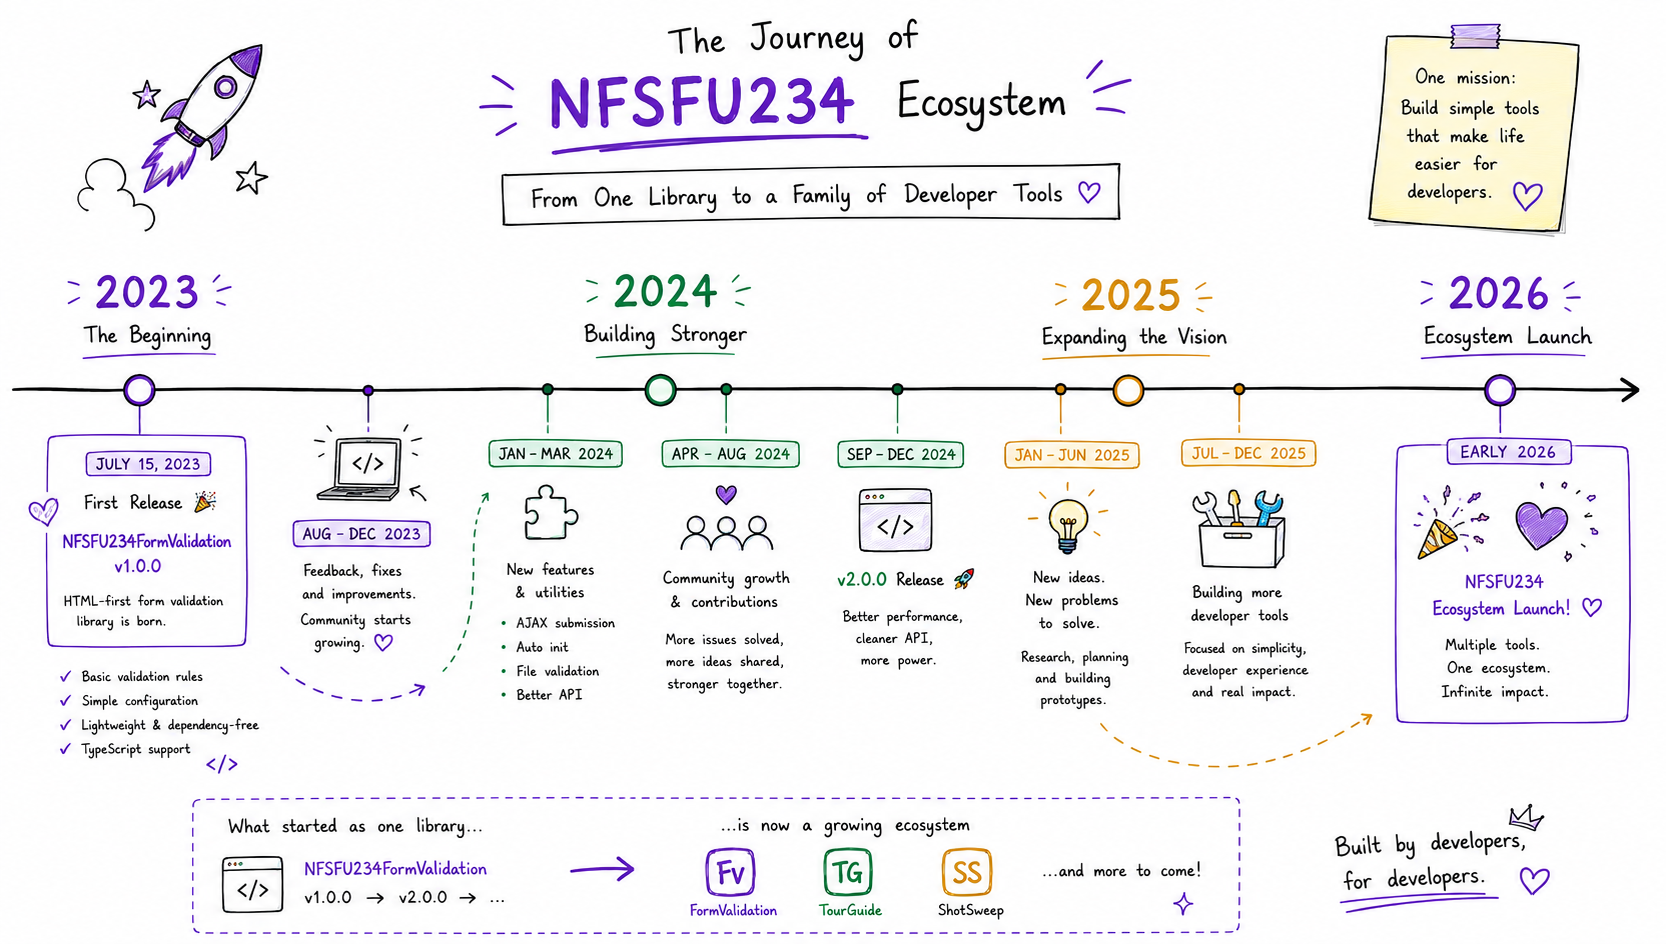
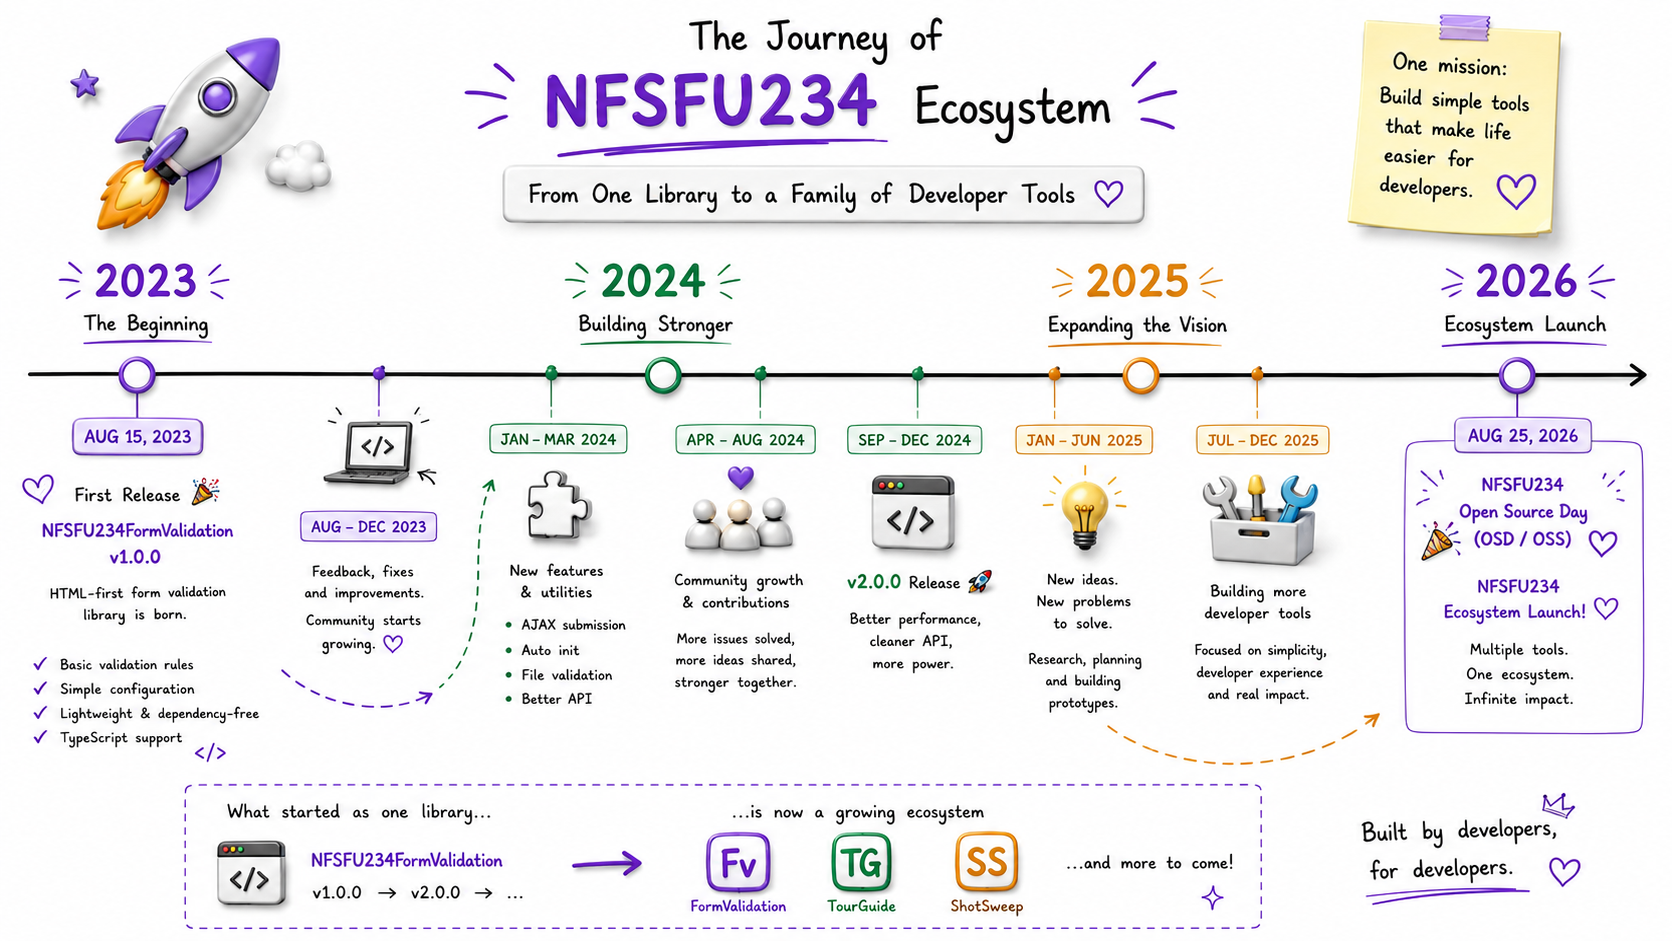
Refactor code structure for improved readability and maintainability

diff --git a/app/(marketing)/about/page.jsx b/app/(marketing)/about/page.jsx
@@ -196,7 +196,7 @@ function OriginStory() {
       <p>It started while <a href="https://www.iamnotshifu.com" target="_blank" rel="noopener noreferrer">IAMNOTSHIFU</a> was still learning to code.</p>
 
       <p>
-        Every new project he picked up, He found myself writing the same thing
+        Every new project he picked up, He found himself writing the same thing
         again — form validation. Required fields, email checks, min/max
         lengths, error messages, the AJAX submit logic around it. Different
         project, same code, rebuilt from scratch every time.
@@ -537,23 +537,6 @@ function GetInTouch() {
   )
 }
 
-function AboutFooter() {
-  return (
-    <>
-      <hr style={{ margin: '4rem 0' }} />
-
-      <p style={{ fontSize: '.95rem', opacity: 0.75, textAlign: 'center' }}>
-        Built with ❤ by <strong>IAMNOTSHIFU</strong> through{' '}
-        <strong>NFORSHIFU234 Dev</strong>, a developer brand of{' '}
-        <strong>NFORSHIFU LOGICFORGE LTD</strong>.
-        <br />
-        Proudly part of the growing{' '}
-        <strong>NFSFU234 Open Source Ecosystem.</strong>
-      </p>
-    </>
-  )
-}
-
 export default function AboutPage() {
   const ecosystemColumn = sharedFooterColumns.find(
     (c) => c.title === 'NFORSHIFU234 Ecosystem'
@@ -577,7 +560,6 @@ export default function AboutPage() {
           <LookingAhead />
           <CommunitySection ecosystemColumn={ecosystemColumn} />
           <GetInTouch />
-          <AboutFooter />
         </div>
       </div>
     </>

diff --git a/app/(marketing)/components/SiteFooterMarketing.jsx b/app/(marketing)/components/SiteFooterMarketing.jsx
@@ -61,7 +61,7 @@ export function SiteFooterMarketing() {
         </div>
 
         <div className="land-footer-bottom">
-          <span>MIT {YEAR} &copy; nfsfu234/form-validation, part of the NFORSHIFU234 ecosystem.</span>
+          <span>MIT {YEAR} &copy; nfsfu234/form-validation, part of the NFSFU234 ecosystem.</span>
           <span>
             Built by{' '}
             <a href="https://www.nforshifu234dev.com" target="_blank" rel="noopener noreferrer">NFORSHIFU234 Dev</a>

diff --git a/app/components/SiteFooter.jsx b/app/components/SiteFooter.jsx
@@ -52,7 +52,7 @@ export function SiteFooter() {
         ))}
       </div>
       <div className="site-footer-bottom">
-        <span>MIT {YEAR} &copy; nfsfu234/form-validation, part of the NFORSHIFU234 ecosystem.</span>
+        <span>MIT {YEAR} &copy; nfsfu234/form-validation, part of the NFSFU234 ecosystem.</span>
         <span>
           Built by{' '}
           <a href="https://www.nforshifu234dev.com" target="_blank" rel="noopener noreferrer">

diff --git a/app/(marketing)/layout.jsx b/app/(marketing)/layout.jsx
@@ -4,7 +4,7 @@ import { SiteNav } from './components/SiteNav'
 import { SiteFooterMarketing } from './components/SiteFooterMarketing'
 import { CookieBanner } from '../components/CookieBanner.jsx'
 import { Analytics } from '../components/Analytics.jsx'
-import './landing.css'
+import '../landing.css'
 
 export const metadata = {
   metadataBase: new URL('https://form-validation.nforshifu234dev.com'),

diff --git a/app/(marketing)/contact/page.jsx b/app/(marketing)/contact/page.jsx
@@ -26,7 +26,7 @@ export default function ContactPage() {
 
         <h2>Email</h2>
         <p>
-          <a href="mailto:info@nforshifu234dev.com">info@nforshifu234dev.com</a>
+          <a href="mailto:developers@nforshifu234dev.com">developers@nforshifu234dev.com</a>
         </p>
 
         <h2>Bug reports &amp; feature requests</h2>

diff --git a/app/lib/footer-links.js b/app/lib/footer-links.js
@@ -8,7 +8,7 @@ export const socialIcons = {
 
 export const INSTAGRAM_HANDLE = 'nf_validator234'
 export const X_HANDLE = 'nf_validator234'
-export const CONTACT_EMAIL = 'info@nforshifu234dev.com'
+export const CONTACT_EMAIL = 'developers@nforshifu234dev.com'
 
 export const marketingPrimaryColumn = {
   title: 'Docs',

diff --git a/app/not-found.jsx b/app/not-found.jsx
@@ -1,5 +1,6 @@
 // app/not-found.jsx
 import Image from 'next/image'
+import './landing.css'
 
 export const metadata = {
   title: '404: Page Not Found'

diff --git a/README.md b/README.md
@@ -192,7 +192,7 @@ npm run docs:generate
 
 ---
 
-## 🌍 Part of the NFORSHIFU234 Ecosystem
+## 🌍 part of the NFSFU234 ecosystem
 
 NFSFU234FormValidation is one of several projects created and maintained by **NFORSHIFU234 Dev**, a software engineering brand of **NFORSHIFU LOGICFORGE LTD.**
 
